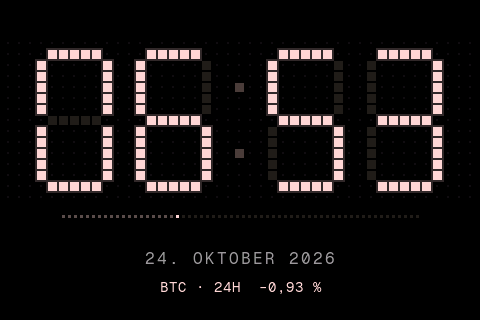
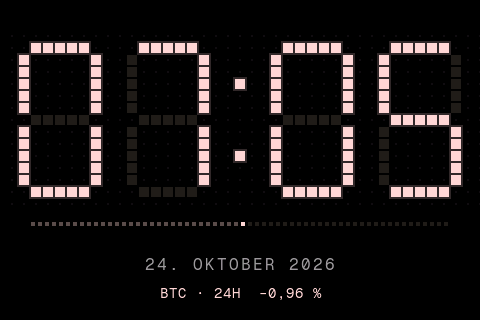
LED-Uhr: Punkte noch größer (10 px bei 12 px Abstand)

diff --git a/firmware/main/ui.c b/firmware/main/ui.c
@@ -879,15 +879,15 @@ static void build_clock(lv_obj_t *t)
 // Unbeleuchtete Segmente schimmern schwach, dahinter ein feines Punktraster. Beim Minutenwechsel verlöschen
 // die alten Punkte, die neuen fallen von oben auf ihren Platz (die unteren Reihen zuerst).
 // Die LEDs leuchten in der Trendfarbe (gestiegen hellgrün, gefallen pink), darunter eine Sekundenreihe.
-#define LD_P 11                           // Abstand der LED-Punkte
-#define LD_DOT 9                          // Kantenlänge eines LED-Punkts
+#define LD_P 12                           // Abstand der LED-Punkte
+#define LD_DOT 10                         // Kantenlänge eines LED-Punkts
 #define LD_CW 7                           // Ziffer: 7 × 13 Punkte
 #define LD_CH 13
 #define LD_COLS 37                        // Ziffer, 2 frei, Ziffer, 2 frei, Doppelpunkt, 2 frei, Ziffer, 2 frei, Ziffer
-#define LD_Y 38                           // Lage der Leinwand
-#define LD_H 192
+#define LD_Y 30                           // Lage der Leinwand
+#define LD_H 206
 #define LD_ROW0 1                         // erste Punktreihe der Ziffern
-#define LD_SEC_Y 178                      // Mitte der Sekundenreihe (in der Leinwand)
+#define LD_SEC_Y 194                      // Mitte der Sekundenreihe (in der Leinwand)
 #define LD_OUT 160                        // alte Punkte verlöschen (ms)
 #define LD_FALL 420                       // Fallzeit eines neuen Punkts (ms)
 #define LD_STAGGER 40                     // Versatz je Reihe, von unten nach oben (ms)
@@ -988,10 +988,10 @@ static void ld_draw(int64_t now)
         ld_dot(cx, cy, LD_DOT, colon ? 255 : 70);
     }
     // Sekundenreihe: 60 kleine LEDs
-    int sp = 6, sx0 = (c->w - 59 * sp) / 2;
+    int sp = 7, sx0 = (c->w - 59 * sp) / 2;
     for (int q = 0; q < 60; q++) {
         uint8_t v = LD.sec < 0 || q > LD.sec ? LD_GHOST : q == LD.sec ? 255 : LD_PAST;
-        ld_dot(sx0 + q * sp, LD_SEC_Y, 3, v);
+        ld_dot(sx0 + q * sp, LD_SEC_Y, 4, v);
     }
     lv_obj_invalidate(c->cv);
 }

diff --git a/firmware/README.md b/firmware/README.md
@@ -86,7 +86,7 @@ ihnen sind die Zellen ausgespart.
 ## Uhr: LED-Punktanzeige
 
 Standard-Uhr im Stil einer klassischen LED-Anzeige, passend zur Punktmatrix des Charts: Die Ziffern sind
-Siebensegment-Ziffern aus quadratischen LED-Punkten (7 × 13 Punkte je Ziffer, 9 px groß), wie die Punkte überall im Deck; leuchtende Punkte glimmen leicht. Unbeleuchtete Segmente schimmern
+Siebensegment-Ziffern aus quadratischen LED-Punkten (7 × 13 Punkte je Ziffer, 10 px groß), wie die Punkte überall im Deck; leuchtende Punkte glimmen leicht. Unbeleuchtete Segmente schimmern
 schwach, dahinter liegt ein feines Punktraster wie auf einem LED-Panel. Beim Minutenwechsel verlöschen die
 alten Punkte, die neuen fallen von oben auf ihren Platz – die unteren Reihen zuerst, die Spalten leicht
 versetzt, schneller werdend wie beim Boot-Screen. Darunter füllt sich eine Reihe aus 60 kleinen LEDs – eine
